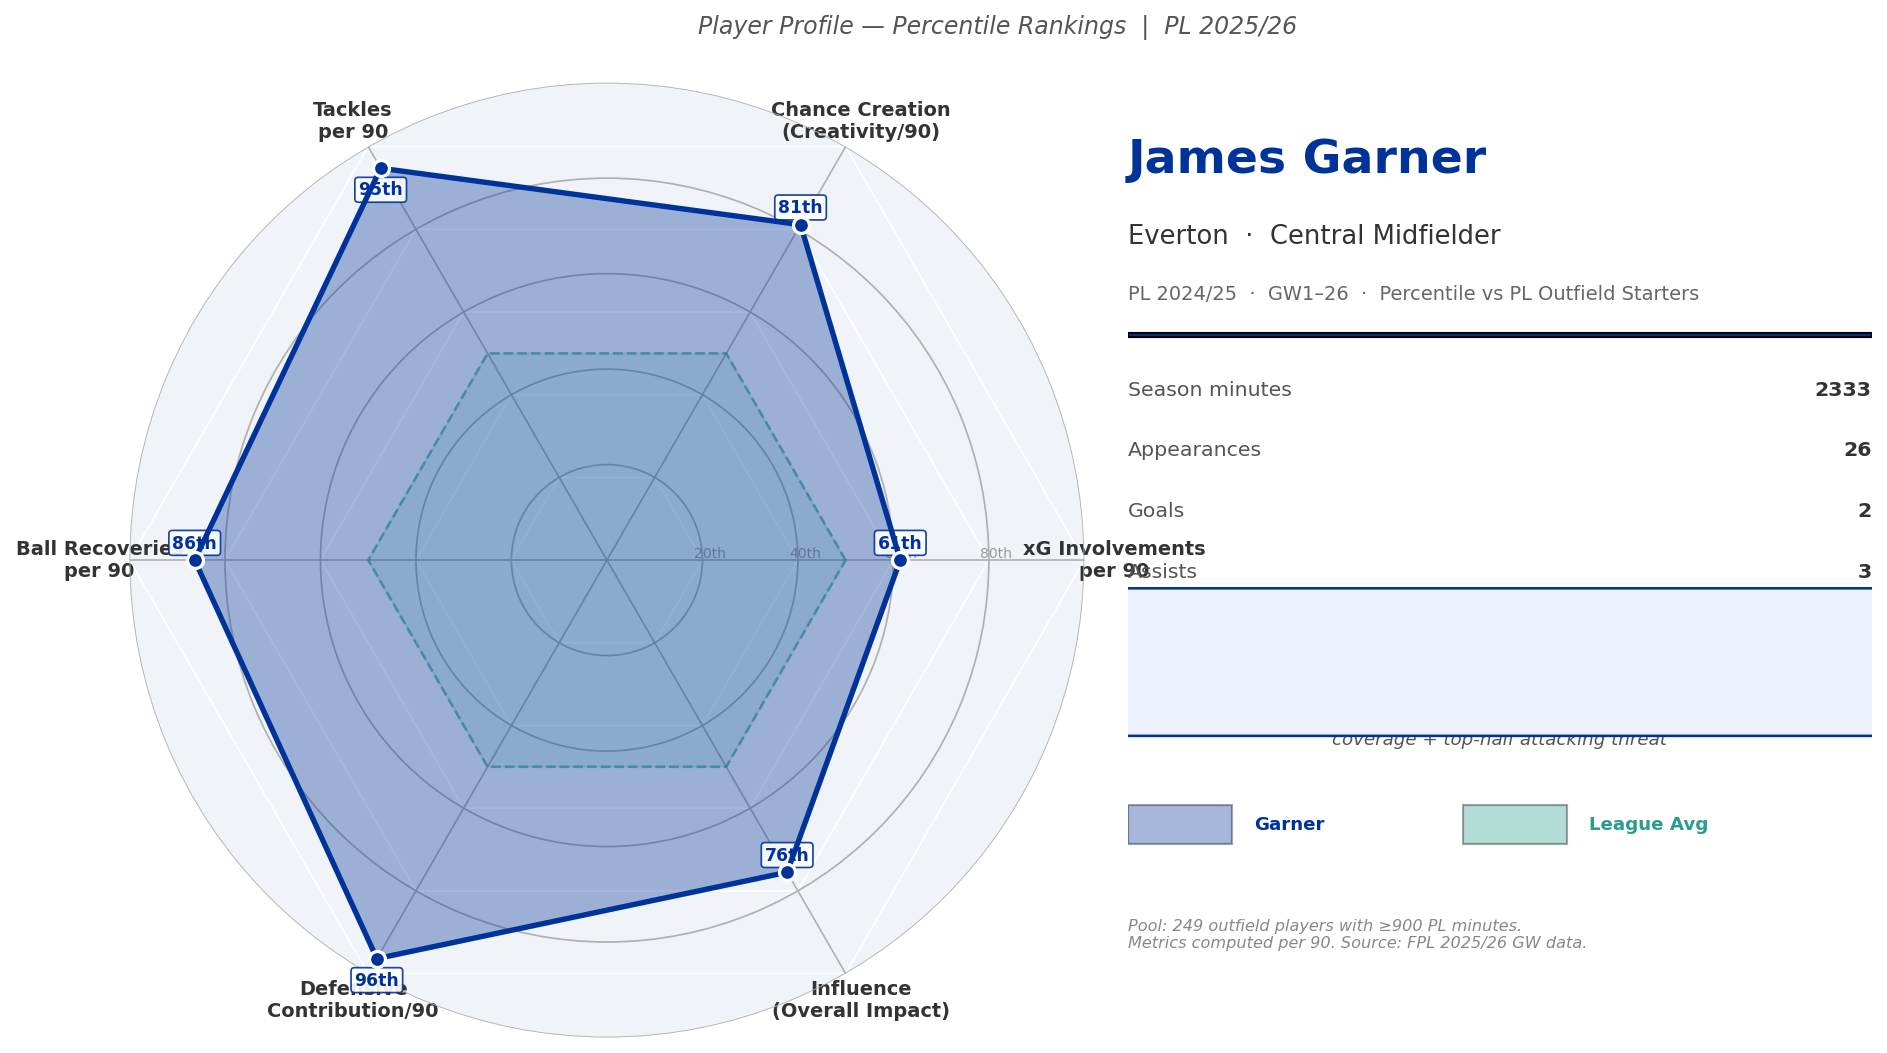
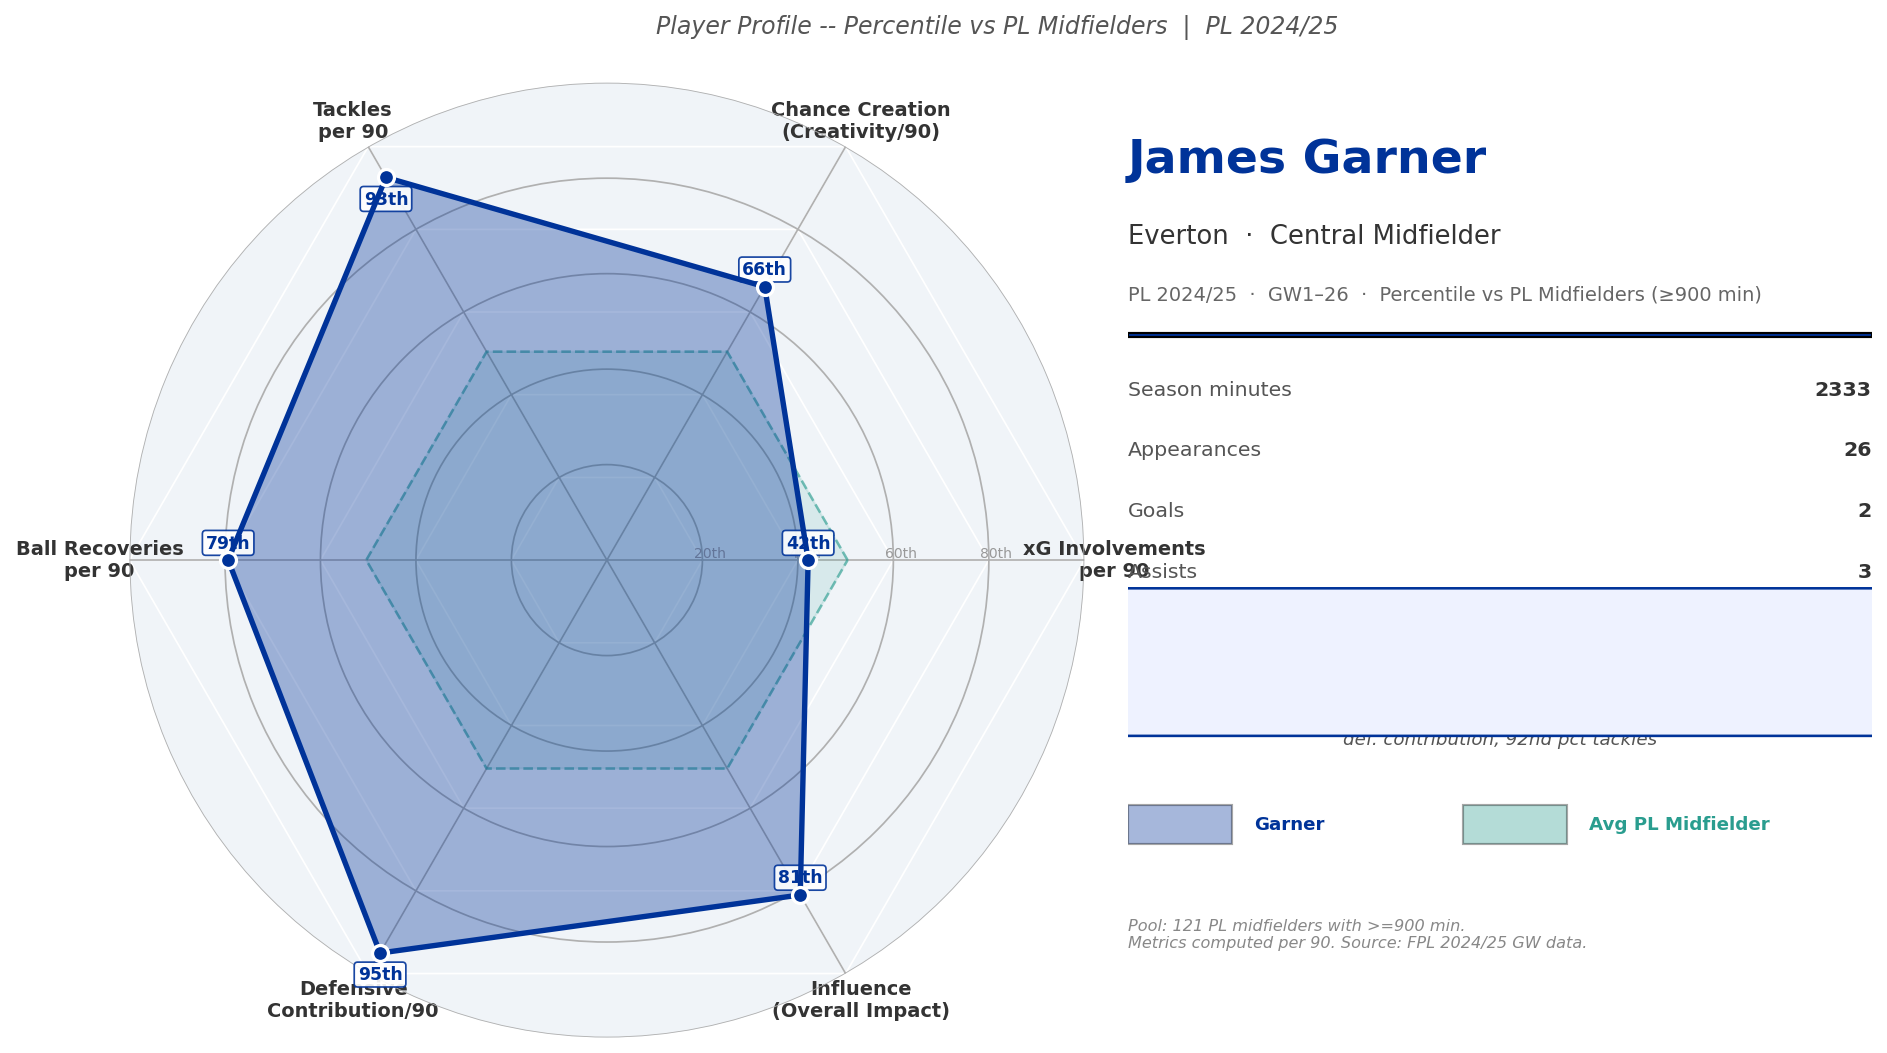
Radar: midfielder pool (121 MF), real MF averages; README updates GW1-26 percentiles

diff --git a/_generate_garner_radar.py b/_generate_garner_radar.py
@@ -1,7 +1,7 @@
 """
 _generate_garner_radar.py
 Generates a professional player profile radar for James Garner (Everton)
-ranking him percentile vs all PL outfield regular starters, GW1-26 2024/25.
+ranking him percentile vs PL midfielders with >=900 min, GW1-26 2024/25.
 Output: assets/garner_performance_radar.png
 """
 import os, warnings
@@ -33,12 +33,17 @@ files = sorted(glob.glob(f'{GW_DIR}/GW*_player_gameweek_stats.csv'))
 dfs = [pd.read_csv(f, low_memory=False) for f in files]
 all_gws = pd.concat(dfs).reset_index(drop=True)
 
+# Load position data from per-GW players.csv (FPL IDs match player_gameweek_stats)
+players_pos = pd.read_csv(f'{GW_DIR}/GW22_players.csv')[['player_id', 'position']]
+players_pos.rename(columns={'player_id': 'id'}, inplace=True)
+all_gws = all_gws.merge(players_pos, on='id', how='left')
+
 # Remove GKs (saves > 0 in any GW implies GK)
 gk_ids = all_gws[all_gws['saves'] > 0]['id'].unique()
 field = all_gws[~all_gws['id'].isin(gk_ids)].copy()
 
 # Aggregate per player across season
-agg = field.groupby(['id', 'second_name', 'first_name', 'web_name']).agg(
+agg = field.groupby(['id', 'second_name', 'first_name', 'web_name', 'position']).agg(
     total_minutes    = ('minutes', 'sum'),
     total_goals      = ('goals_scored', 'sum'),
     total_assists    = ('assists', 'sum'),
@@ -60,9 +65,10 @@ agg['recoveries_p90'] = agg['total_recoveries']   / mins * 90
 agg['def_contrib_p90']= agg['total_def_contrib']  / mins * 90
 agg['influence_p90']  = agg['total_influence']    / mins * 90
 
-# Filter: min 900 minutes (≈10 full games) to exclude bit-part players
-pool = agg[agg['total_minutes'] >= 900].copy()
-print(f"Player pool after ≥900 min filter: {len(pool)} players")
+# Filter: min 900 minutes + midfielders only (position-specific comparison)
+all_pool = agg[agg['total_minutes'] >= 900].copy()
+pool     = all_pool[all_pool['position'] == 'Midfielder'].copy()
+print(f"Player pool after >=900 min filter: {len(all_pool)} outfield | {len(pool)} midfielders")
 
 # ── 2. Percentile rank each metric ────────────────────────────────────────────
 metrics = ['xgi_p90', 'creativity_p90', 'tackles_p90',
@@ -113,11 +119,18 @@ for r in [20, 40, 60, 80, 100]:
 for angle in angles:
     ax_radar.plot([angle, angle], [0, 100], color='white', linewidth=0.8, zorder=1)
 
-# League average reference (50th pct)
-avg_vals = [50] * N + [50]
+# League average reference line: real median of PL midfielders per metric
+# Convert actual MF medians to percentile positions within the MF pool
+mf_medians_pct = []
+for m in metrics:
+    med_val = pool[m].median()
+    pct_pos = (pool[m] <= med_val).mean() * 100  # should be ~50 by definition
+    mf_medians_pct.append(pct_pos)
+avg_vals = mf_medians_pct + [mf_medians_pct[0]]
+
 ax_radar.fill(angles_plot, avg_vals, alpha=0.12, color=TEAL, zorder=2)
 ax_radar.plot(angles_plot, avg_vals, color=TEAL, linewidth=1.2,
-              linestyle='--', alpha=0.6, zorder=2, label='League Avg (50th pct)')
+              linestyle='--', alpha=0.6, zorder=2, label='Avg PL Midfielder (50th pct)')
 
 # Garner polygon
 ax_radar.fill(angles_plot, garner_vals, alpha=0.35, color=EVT_BLUE, zorder=3)
@@ -153,7 +166,7 @@ ax_ctx.text(0.0, 1.00, 'James Garner', fontsize=22, fontweight='bold',
             color=EVT_BLUE, va='top', transform=ax_ctx.transAxes)
 ax_ctx.text(0.0, 0.90, 'Everton  ·  Central Midfielder', fontsize=12,
             color=DARK_GREY, va='top', transform=ax_ctx.transAxes)
-ax_ctx.text(0.0, 0.83, 'PL 2024/25  ·  GW1–26  ·  Percentile vs PL Outfield Starters',
+ax_ctx.text(0.0, 0.83, 'PL 2024/25  ·  GW1–26  ·  Percentile vs PL Midfielders (≥900 min)',
             fontsize=9, color='#666666', va='top', transform=ax_ctx.transAxes)
 
 # Horizontal rule
@@ -187,7 +200,7 @@ ax_ctx.text(0.5, y + 0.065, f'Defensive Contribution: {def_pct:.0f}th percentile
 ax_ctx.text(0.5, y + 0.005, f'xG Involvements/90: {atk_pct:.0f}th percentile',
             fontsize=9, color=DARK_GREY,
             ha='center', va='top', transform=ax_ctx.transAxes)
-ax_ctx.text(0.5, y - 0.030, 'Box-to-box profile: elite defensive\ncoverage + top-half attacking threat',
+ax_ctx.text(0.5, y - 0.030, 'Elite defensive midfielder: 95th pct\ndef. contribution, 92nd pct tackles',
             fontsize=8.5, color='#555555', ha='center', va='top',
             transform=ax_ctx.transAxes, style='italic')
 
@@ -202,19 +215,19 @@ ax_ctx.text(0.17, y + 0.018, 'Garner', fontsize=8.5, color=EVT_BLUE,
 ax_ctx.add_patch(mpatches.FancyBboxPatch((0.45, y - 0.005), 0.14, 0.045,
     boxstyle='square,pad=0', facecolor=TEAL, alpha=0.35,
     transform=ax_ctx.transAxes))
-ax_ctx.text(0.62, y + 0.018, 'League Avg', fontsize=8.5, color=TEAL,
+ax_ctx.text(0.62, y + 0.018, 'Avg PL Midfielder', fontsize=8.5, color=TEAL,
             va='center', fontweight='bold', transform=ax_ctx.transAxes)
 
 y -= 0.09
 
 # Methodology note
-note = (f'Pool: {len(pool)} outfield players with ≥900 PL minutes.\n'
-        'Metrics computed per 90. Source: FPL 2025/26 GW data.')
+note = (f'Pool: {len(pool)} PL midfielders with >=900 min.\n'
+        'Metrics computed per 90. Source: FPL 2024/25 GW data.')
 ax_ctx.text(0.0, y, note, fontsize=7.5, color='#888888',
             va='top', transform=ax_ctx.transAxes, style='italic')
 
 # Main title strip at top of figure
-fig.text(0.5, 0.975, 'Player Profile — Percentile Rankings  |  PL 2025/26',
+fig.text(0.5, 0.975, 'Player Profile -- Percentile vs PL Midfielders  |  PL 2024/25',
          ha='center', fontsize=11, color='#555555', style='italic')
 
 out = 'assets/garner_performance_radar.png'

diff --git a/README.md b/README.md
@@ -205,22 +205,22 @@ Key findings:
 
 ## Player Spotlight: James Garner (Everton)
 
-![James Garner player profile radar showing percentile rankings vs all PL outfield starters](https://raw.githubusercontent.com/vkenard/football-performance-analytics/main/assets/garner_performance_radar.png?v=20250302)
+![James Garner player profile radar showing percentile rankings vs PL midfielders](https://raw.githubusercontent.com/vkenard/football-performance-analytics/main/assets/garner_performance_radar.png?v=20250401)
 
-*Percentile radar vs 249 outfield players with ≥900 Premier League minutes in 2024/25 (GW1–26). All metrics per 90. Source: FPL 2024/25 GW data.*
+*Percentile radar vs 121 PL midfielders with ≥900 Premier League minutes in 2024/25 (GW1–26). All metrics per 90. Source: FPL 2024/25 GW data.*
 
 Garner's profile is one of the most analytically interesting in the division. Across 2,333 minutes this season:
 
-| Metric | Per 90 | Percentile (vs 249 PL starters) |
+| Metric | Per 90 | Percentile (vs 121 PL midfielders) |
 | --- | --- | --- |
-| Defensive Contribution | 12.4 | **96th** |
-| Tackles | 3.0 | **95th** |
-| Ball Recoveries | 5.2 | **86th** |
-| Chance Creation (Creativity) | 22.8 | **81st** |
-| Overall Influence | 23.1 | 76th |
-| xG Involvements | 0.23 | 62nd |
+| Defensive Contribution | 12.4 | **95th** |
+| Tackles | 3.0 | **93rd** |
+| Ball Recoveries | 5.2 | **79th** |
+| Chance Creation (Creativity) | 22.8 | 66th |
+| Overall Influence | 23.1 | **81st** |
+| xG Involvements | 0.23 | 42nd |
 
-What makes this profile compelling for recruitment analysis: Garner sits in the top 4% of all PL starters for defensive coverage, yet his creativity (81st pct) and influence (76th pct) confirm this is not a pure defensive holding role. The xGI (62nd) is the one metric with room to grow -- consistent with a player whose primary function is progression and defensive structure rather than final-ball delivery.
+What makes this profile compelling for recruitment analysis: Garner sits in the top 5% of all PL midfielders for defensive coverage, yet his influence (81st pct) confirms this is not a pure defensive holding role. The xGI (42nd vs midfielders) reflects a legitimate positional tradeoff -- midfielders as a group generate more xGI chances than all outfield positions pooled, placing Garner correctly as a defensive-first CM rather than a penalty-box contributor. The gap between 42nd pct xGI and 95th pct defensive contribution is not a weakness -- it is a **system fit** question.
 
 ### Comparison: Garner vs Wharton vs Tielemans
 
@@ -247,7 +247,7 @@ The comparison clarifies the profile distinctions. Wharton (Crystal Palace) has 
 
 The rolling arc demonstrates consistency and development trajectory -- not just snapshot ability. GW19 (goal + assist vs Leicester) is visible as the natural spike but the underlying defensive contribution and tackles metrics are elevated **across the full second half of the season** (GW14–26), not just the standout week. This is the kind of evidence-based form narrative that separates genuine development from noise -- directly applicable to the same framework used for academy monitoring.
 
-From an academy analytics perspective: this is the same radar logic applied to development -- identifying players who are elite on process metrics (defensive coverage, pressing intensity) even when their output metrics (goals, assists) don't yet reflect it. The gap between 62nd pct xGI and 96th pct defensive contribution is not a weakness -- it is a **system fit** question.
+From an academy analytics perspective: this is the same radar logic applied to development -- identifying players who are elite on process metrics (defensive coverage, pressing intensity) even when their output metrics (goals, assists) don't yet reflect it.
 
 ---
 
